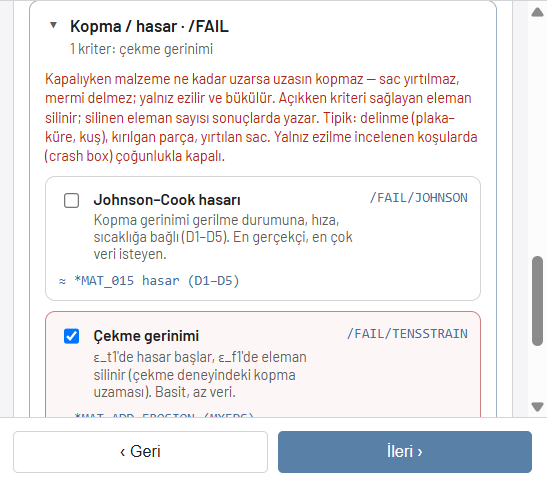
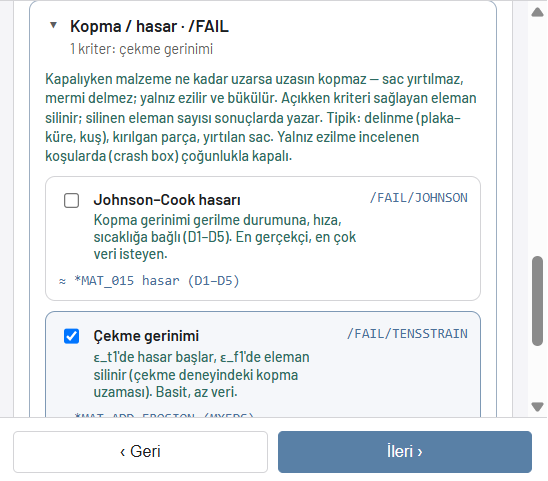
style(ui): açıklama rengi kırmızı yerine model yeşiliyle uyumlu koyu teal (--hint-ink, koyu tema dahil), orta kalınlık; seçili /FAIL kartı mavi; Belgeler görseli

Changed region(s): [[0.062, 0.1559, 0.8686, 0.343], [0.1551, 0.4366, 0.6515, 0.5613], [0.1551, 0.7173, 0.5584, 0.842]]

diff --git a/frontend/src/theme.css b/frontend/src/theme.css
@@ -42,7 +42,7 @@
   --muted: #5d5d60;           /* eski: #6e757c — Workbench v4 --color-neutral-700 */
   --disabled: #b7b7ba;        /* eski: #b3b9be — Workbench v4 --color-neutral-400 */
   --accent: #5980a6;          /* eski: #00b4c8 (turkuaz) — Workbench v4 --color-accent */
-  --hint-red: #b42318;        /* açıklama metni (crash malzeme) */
+  --hint-ink: #2d6c62;        /* açıklama metni — model yeşiliyle uyumlu koyu teal (2026-10-08, kırmızı yerine) */
   --ref-blue: #4a7099;        /* Radioss / LS-DYNA karşılıkları — buton mavisine yakın, okunur */
   --accent-hover: #416180;    /* eski: #00a0b2 — Workbench v4 --color-accent-700 */
   --accent-soft: #eef6ff;     /* eski: #e2f6f8 — Workbench v4 --color-accent-100 */
@@ -85,7 +85,7 @@
   --muted: #8a8d91;
   --disabled: #55585d;
   --accent: #00d9e8;
-  --hint-red: #f87171;
+  --hint-ink: #8cc7b5;
   --ref-blue: #4ee7f2;
   --accent-hover: #4ee7f2;
   --accent-soft: rgba(0, 217, 232, 0.14);
@@ -127,7 +127,7 @@
   --muted: #5d5d60;
   --disabled: #b7b7ba;
   --accent: #5980a6;
-  --hint-red: #b42318;        /* açıklama metni (crash malzeme) */
+  --hint-ink: #2d6c62;        /* açıklama metni — model yeşiliyle uyumlu koyu teal (2026-10-08, kırmızı yerine) */
   --ref-blue: #4a7099;        /* Radioss / LS-DYNA karşılıkları — buton mavisine yakın, okunur */
   --accent-hover: #416180;
   --accent-soft: #eef6ff;

diff --git a/frontend/src/index.css b/frontend/src/index.css
@@ -8275,8 +8275,8 @@ p {
 }
 
 .crash-fail-tile.active {
-  border: 1.5px solid color-mix(in srgb, #c94a4a 60%, var(--border));
-  background: color-mix(in srgb, #c94a4a 5%, var(--surface));
+  border: 1.5px solid color-mix(in srgb, var(--accent) 70%, var(--border));
+  background: color-mix(in srgb, var(--accent) 6%, var(--surface));
 }
 
 .crash-fail-head {
@@ -8395,7 +8395,8 @@ p {
 /* Kullanıcı 2026-10-08: açıklamalar kırmızı, başlıklar kalın, karşılıklar mavi */
 .crash-mat-step .crash-behavior-hint,
 .crash-mat-step .material-assign-hint {
-  color: var(--hint-red);
+  color: var(--hint-ink);
+  font-weight: 500;
 }
 
 .crash-expert-title {
@@ -8411,5 +8412,6 @@ p {
 }
 
 .crash-mat-step .crash-fail-text span {
-  color: var(--hint-red);
+  color: var(--hint-ink);
+  font-weight: 500;
 }

diff --git a/frontend/src/docs/crashDoc.ts b/frontend/src/docs/crashDoc.ts
@@ -179,7 +179,7 @@ export const CRASH_DOC: DocSection[] = [
     ],
     gallery: [
       { src: IMG("08-malzeme.png"), caption: "3 Davranış ve kopma · LAW2: aç/kapa bölümler (Akma ve pekleşme, Hız etkisi, Sıcaklık, Basit kopma, Kopma / hasar); kapalıyken değiştirilen alanlar başlıkta özetlenir." },
-      { src: IMG("09-fail.png"), caption: "Kopma / hasar: Johnson–Cook ve çekme gerinimi kartları; açık kart kırmızı çerçeveli, alanları altında." },
+      { src: IMG("09-fail.png"), caption: "Kopma / hasar: Johnson–Cook ve çekme gerinimi kartları; seçili kart mavi çerçeveli, alanları altında." },
     ],
   },
   {
